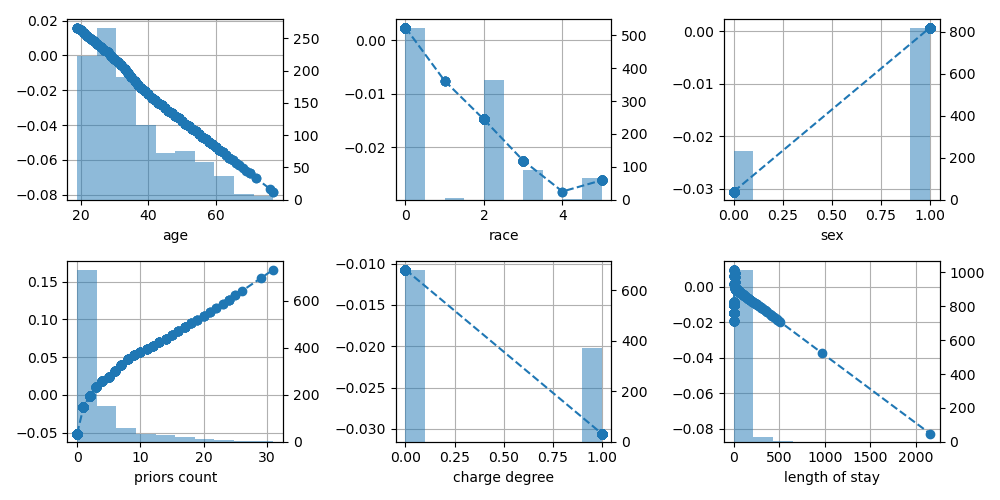
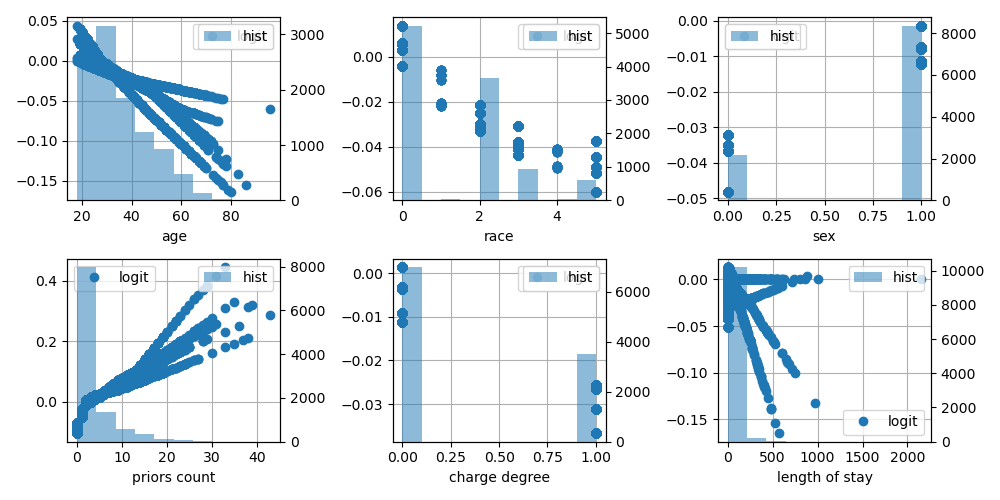
refactored; added cross validation

diff --git a/demo.py b/demo.py
@@ -1,45 +1,65 @@
+import numpy as np
 import pandas as pd
-from sklearn.model_selection import train_test_split
-from nam import NAM, FFNN
+from sklearn.model_selection import KFold
+from nam import NAM
 from utils import CompasData, train_model, eval_model
-
+from plots import plot_roc_curve, plot_shape_functions
 
 def main():
-    data = pd.read_csv('./data/compas/compas.csv')   
+    data = pd.read_csv('./data/compas/compas.csv')  
     cols = data.columns
-
     X = data.iloc[:,:-1].values
     y = data.iloc[:, -1].values
-    X_train, X_test, y_train, y_test = train_test_split(X, y, test_size=0.1)
 
-    data_train = CompasData(X_train, y_train)
-    data_test = CompasData(X_test, y_test)
-   
-    model = NAM(
-        6, 
-        [64, 64, 32],
-        dropout_rate = 0.1, 
-        feature_dropout=0.05, 
-        use_exu=False
-    )
-    model = model.double()
+    preds, partials = [], []
+    cv = KFold(n_splits = 5, shuffle=False)
+    for i, (train_idx, test_idx) in enumerate(cv.split(X, y)):
 
-    train_model(
-        model, 
-        data_train, 
-        batch_size = 16, 
-        max_epochs=10, 
-        verbosity=20, 
-        learning_rate=2e-4,
-        weight_decay=0.,
-        output_penalty=0.2
-    )
+        print('\t===== Fold no. {} =====\n'.format(i + 1))
+    
+        data_train = CompasData(
+            X[train_idx], 
+            y[train_idx]
+        )
+        
+        data_test = CompasData(
+            X[test_idx], 
+            y[test_idx]
+        )        
+    
+        model = NAM(
+            6, 
+            [64, 64, 32],
+            dropout_rate = 0.1, 
+            feature_dropout=0.05, 
+            use_exu=False
+        )
+        model = model.double()
 
-    eval_model(
-        model,
-        data_test,
-        feature_names = cols
-    )
+        train_model(
+            model, 
+            data_train, 
+            batch_size = 16, 
+            max_epochs=10, 
+            verbosity=20, 
+            learning_rate=2e-4,
+            weight_decay=0.,
+            output_penalty=0.2
+        )
+
+        y_, p_ = eval_model(
+            model, 
+            data_test
+        )
+
+        preds.append(y_)
+        partials.append(p_)
+
+    preds = np.concatenate(preds)
+    partials = np.concatenate(partials)
+    
+    plot_roc_curve(preds, y)
+    plot_shape_functions(partials, X, cols[:-1])    
 
 if __name__ == '__main__':
     main()

diff --git a/plots.py b/plots.py
@@ -18,25 +18,28 @@ def plot_roc_curve(preds, targets, fname = './results/roc_curve.png'):
     plt.savefig(fname)
 
 
-def plot_shape_functions(x, p, nrows = 2, fname = './results/shape_functions.png'):
-    assert x.shape == p.shape
+def plot_shape_functions(p, x, names, nrows = 2, fname = './results/shape_functions.png'):
+    assert p.shape == x.shape
+    assert p.shape[1] == len(names)
 
     n = x.shape[1]    
     ncols = n // nrows
     plt.clf()
     fig, axes = plt.subplots(nrows = nrows, ncols = ncols, figsize = (10, 5))
-    for i, col in range(x.columns):
-        x = x.sort_values(col)
-        p = p.loc[x.index]
+    for i in range(p.shape[1]):
+
         r = i // ncols
-        c = i % ncols                
-        axes[r, c].plot(x[col], p[col], 'o--')
+        c = i % ncols     
+
+        axes[r, c].plot(x[:,i], p[:,i], 'o', label = 'logit')
         axes[r, c].grid()
-        axes[r, c].set_xlabel(col.replace('_', ' '))
+        axes[r, c].set_xlabel(names[i].replace('_', ' '))
+        axes[r, c].legend() 
 
         twin = axes[r, c].twinx()
-        twin.hist(x[col], alpha = .5)
-        
+        twin.hist(x[:,i], alpha = .5, label = 'hist')
+        twin.legend()
+
     plt.tight_layout()
     plt.savefig(fname)
 

diff --git a/utils.py b/utils.py
@@ -3,7 +3,6 @@ import torch
 import pandas as pd
 import torch.nn as nn
 from torch.utils.data import Dataset, DataLoader
-from plots import plot_roc_curve, plot_shape_functions
 
 class CompasData(Dataset):
     def __init__(self, X, y):
@@ -57,19 +56,11 @@ def train_model(model, data, max_epochs = 10, batch_size = 32, learning_rate = 1
         print('\n\t Epoch finished in {:1.2f} seconds!\n'.format(time.time() - start))
 
 
-def eval_model(model, data, feature_names):
+def eval_model(model, data):
     model.eval()
     with torch.no_grad():
-        y_, p_ = model(data.X)    
+        y_, p_ = model(data.X)   
+        y_ = y_.flatten().numpy()
+        p_ = p_.numpy()
+    return y_, p_
 
-    preds = y_.flatten().numpy()
-    targets = data.y.numpy()
-    plot_roc_curve(preds, targets)
-
-    features = data.X.numpy()
-    partials = p_.numpy()
-
-    features = pd.DataFrame(features, coumns = feature_names)
-    partials = pd.DataFrame(partials, coumns = feature_names)
-
-    plot_shape_functions(features, partials)    
